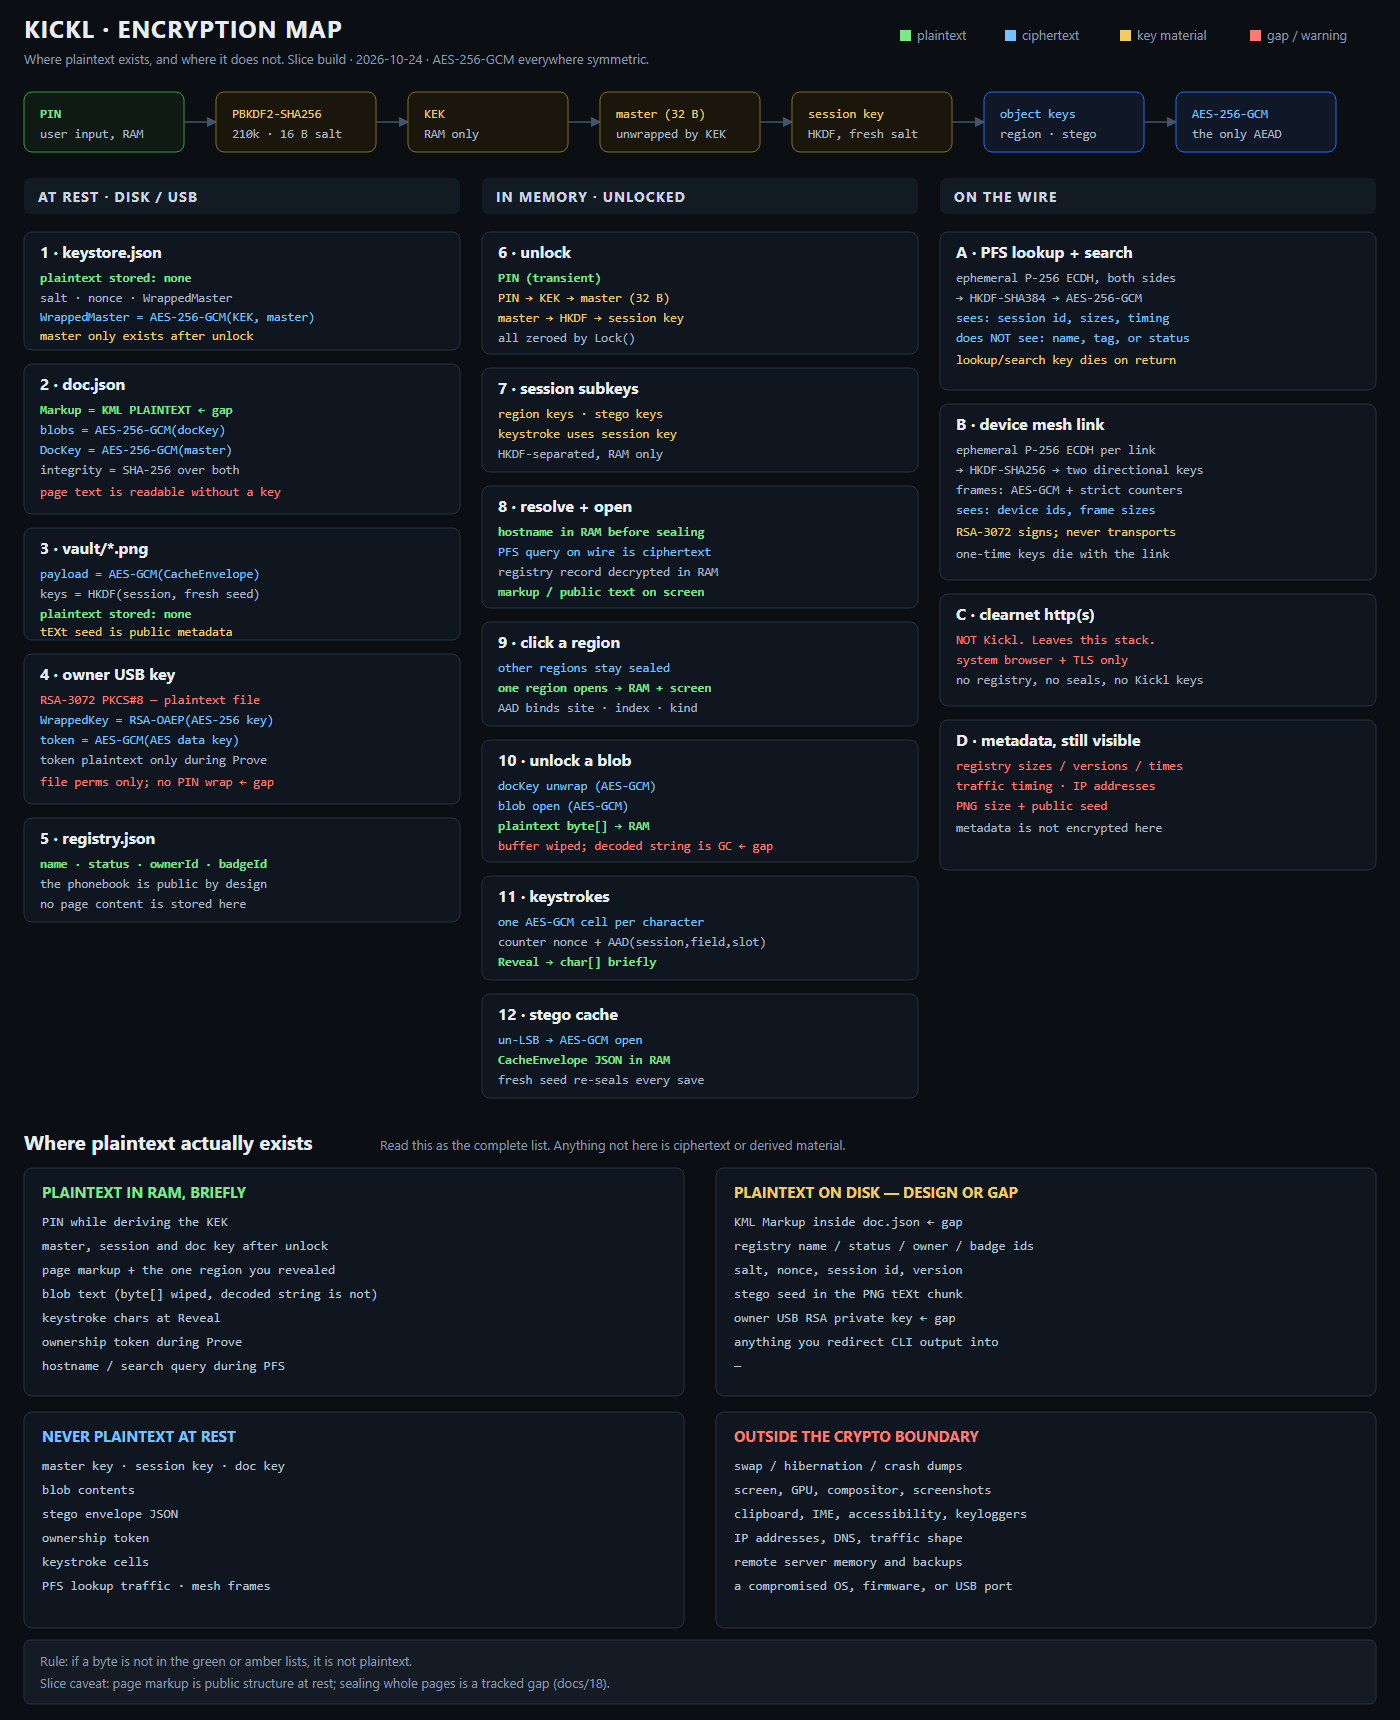
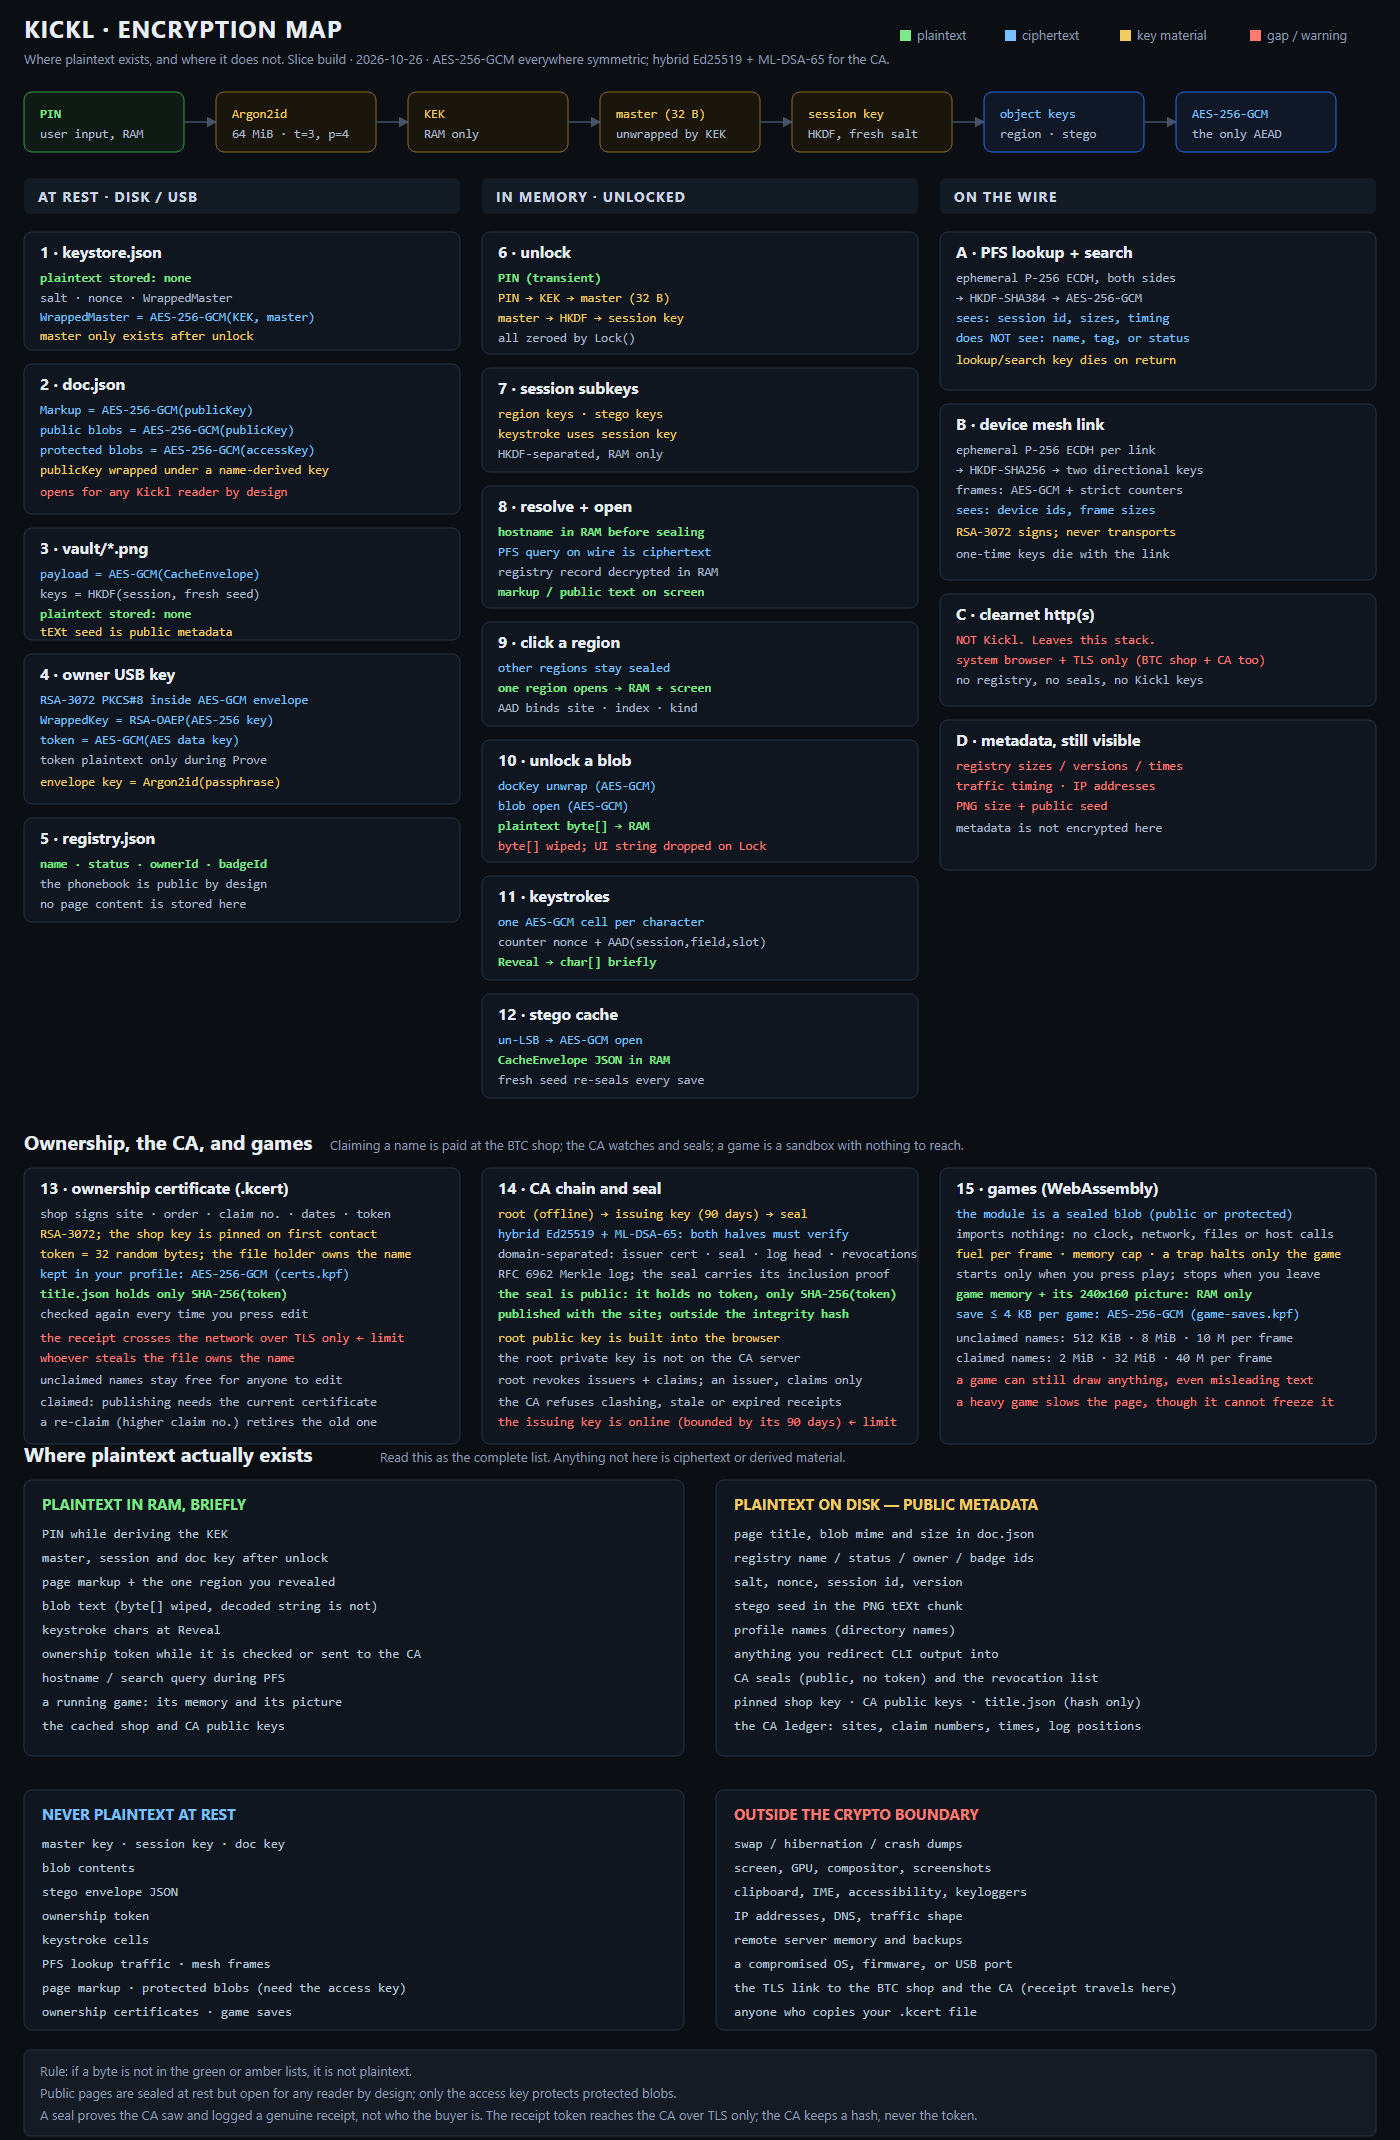
Update the encryption map for ownership, the CA, protected blobs and games
The diagram and docs/20 now show what the last round of work added:

- A new band with three panels: the ownership certificate, the CA chain and
  seal (offline root, 90-day issuing key, hybrid Ed25519 + ML-DSA-65,
  transparency log), and the WebAssembly game sandbox.
- Inventory lists updated: certificates and game saves are never plaintext at
  rest; seals, the ledger and pinned public keys are public metadata; a running
  game's memory is plaintext in RAM.
- New limits stated plainly: the receipt token crosses TLS only, a .kcert is a
  bearer credential, a seal does not identify the buyer, the issuing key is
  online, and games can still draw misleading pixels.
- Page markup is no longer listed as plaintext on disk; it is sealed at rest.
- PNG regenerated from the SVG.

diff --git a/docs/20-encryption-map.md b/docs/20-encryption-map.md
@@ -3,7 +3,7 @@
 > Scope: the **slice as implemented today** (`src/Kickl.Core`), not the target design.
 > Anything labelled "gap" is a real difference between the two.
 >
-> Visual version: [`diagrams/encryption-map.svg`](diagrams/encryption-map.svg)
+> Visual version: [`diagrams/encryption-map.svg`](diagrams/encryption-map.svg) · updated 2026-10-26 for ownership certificates, the CA, protected blobs and games
 
 ## 1. The key chain
 
@@ -47,9 +47,9 @@ ownership USB and to sign title statements; ECDH is used only for PFS lookup key
 │  WrappedMaster  [ciphertext]│  │ session key + subkeys       │  │  HKDF-SHA384                │
 │                             │  │ doc key (after first blob)  │  │  AES-256-GCM query/response │
 │ doc.json                    │  │                             │  │  observer: id, sizes, timing│
-│  Markup         [PLAINTEXT] │  │ page text (public)          │  │  observer: NOT host/status  │
+│  SealedMarkup [ciphertext]  │  │ page text (public)          │  │  observer: NOT host/status  │
 │  blobs          [ciphertext]│  │ one revealed region         │  │                             │
-│  DocKey         [wrapped]   │  │ blob text (then buffer zero)│  │ mesh link                   │
+│  PublicWrap, DocKey [wrapped]│  │ blob text (then buffer zero)│  │ mesh link                   │
 │                             │  │ keystroke chars (Reveal)    │  │  ephemeral P-256 ECDH       │
 │ vault/*.png                 │  │ ownership token (Prove)     │  │  HKDF-SHA256 → 2 dir keys   │
 │  AES-GCM envelope in LSB    │  │ search query + result list  │  │  AES-GCM frames + counters  │
@@ -75,7 +75,7 @@ host string (RAM, plaintext)
    │        title, headline, tags, updated
    │
    ├─► doc.json read
-   │        Markup ......................... PLAINTEXT (public structure)
+   │        SealedMarkup ................... AES-256-GCM under the public key
    │        blobs[id].Ciphertext ........... AES-256-GCM
    │        DocKey.Ciphertext .............. AES-256-GCM under master
    │
@@ -107,6 +107,9 @@ host string (RAM, plaintext)
 | Blob text | `UnlockBlob` | byte buffer zeroed; decoded string lives until GC |
 | Keystroke characters | `KeystrokeShield.Reveal` | returned `char[]`, caller wipes |
 | Ownership token | `OwnershipAuthority.Prove` | inside the call, then zeroed |
+| Ownership certificate token | `BrowserSession.ImportCertAsync` / `SubmitToCaAsync` | while it is checked or sent to the CA; the certificate itself is kept encrypted |
+| Game memory and 240×160 picture | `WasmGame` | while the game runs; freed when it stops, the page changes or the profile locks |
+| Shop and CA public keys | `SiteClaims`, `CaPins` | cached in RAM; nothing secret |
 | Lookup hostname or search query | `BrowserSession.Lookup` / `Search` | duration of the call |
 | Search result metadata | `Search` / renderer | query response, then GC |
 | Session P-256 private key | `SessionSecret.Create` | until `Lock()`; public half is public |
@@ -115,11 +118,16 @@ host string (RAM, plaintext)
 
 | Plaintext | Where | Why |
 |---|---|---|
-| **KML page markup** | `doc.json` → `Markup` | **slice choice**: markup is public structure; regions are sealed only in memory. Target design seals pages at rest (`docs/18`) — tracked gap. |
+| Page title, blob mime and size | `doc.json` | public metadata; the page text itself is `SealedMarkup` ciphertext |
 | Legacy draft markup | `profiles/<profile-id>/drafts/` | Migrated files may be plaintext; the browser composer now builds markup in memory and does not write a draft file |
 | Registry names, status, owner id, badge id, title, headline, tags | `shared/registry.json` | the phonebook and the live index are public; that is the point of the registry |
 | Profile name | `profiles/<profile-id>/` directory name | Local account picker needs a stable label; profile names are not encrypted |
 | Salts, nonces, session ids, versions | keystore / docs / stego PNG | metadata required to decrypt |
+| Page title, blob mime and size | `doc.json` | public metadata; the page text and public blobs are ciphertext |
+| **CA seal** | `doc.json` → `Seal` | public by design: it names the site, claim number, times and log position, and holds only `SHA-256(token)`, never the token. Outside the integrity hash |
+| Ownership title | `shared/ownership/<site>.title.json` | owner id, badge id, `SHA-256(token)` commitment, dates |
+| Pinned shop key, CA public keys, cached revocation list | `shared/ownership/` | public keys and a signed list; nothing secret |
+| CA ledger | `server/keys/ca/data/ledger.jsonl` (CA server) | public: sites, claim numbers, times, log positions, seals |
 | Stego seed | PNG `tEXt` chunk | not a secret: payload key = HKDF(session, seed); seed only keys the permutation |
 | **Owner USB RSA private key** | `kickl-owner-<site>.key` | Argon2id-derived AES-256-GCM envelope; passphrase required to unlock |
 | CLI output / redirected logs | wherever you send it | `open` prints page text by design |
@@ -131,6 +139,10 @@ host string (RAM, plaintext)
 - stego envelope JSON
 - ownership token
 - keystroke cells
+- page markup and public blobs (`doc.json`: AES-256-GCM under the per-document public key)
+- protected blobs (a separate key, wrapped by an Argon2id key derived from the site's access key)
+- ownership certificates (`profiles/<id>/private/certs.kpf`)
+- game save data (`profiles/<id>/private/game-saves.kpf`, at most 4 KiB per game)
 - saved reading items (`profiles/<profile-id>/private/saved-items.kpf`)
 - configured news feed sources (`profiles/<profile-id>/private/news-sources.kpf`)
 - home ad-slot preference (`profiles/<profile-id>/private/home-ad-pref.kpf`)
@@ -152,10 +164,12 @@ None of the cryptography below protects these:
 - IP addresses, DNS, traffic timing and sizes
 - remote server memory, backups, logs
 - a compromised OS, firmware, or USB port
+- the TLS link to the BTC shop and to the CA: the ownership receipt, including its secret token, crosses it. Kickl keys do not protect that link
+- anyone who copies a `.kcert` file: whoever holds a certificate can edit the name until the claim expires
 
 ## 5. Known gaps (do not claim otherwise)
 
-1. **Page markup is plaintext at rest.** `SealedDocument.Markup` is serialized as-is. Only blobs are encrypted. Sealed page regions exist in memory (`SealedPage`) and in the site cache envelope, not in `doc.json`.
+1. **Public content is open to every Kickl reader by design.** Markup and public blobs are AES-256-GCM under a per-document public key, wrapped under a key derived from the site name. This keeps page text out of disk, backup and file-listing reads; it is not a secret. Real secrecy comes from `access="protected"` blobs, keyed by an access key (Argon2id) that the author hands out.
 2. **Blob text becomes a managed string.** The byte buffer is zeroed, but `Encoding.UTF8.GetString` creates a GC string that cannot be wiped. Production needs a pinned render buffer.
 3. **Trusted-device ceremony is not integrated into hardware.** The software encrypts owner keys with an Argon2id-derived AES-GCM key and supports RSA-wrapped AES-GCM proof packets, but the CLI prompt runs on its own host. A physical first-device prompt, receiver dongle storage/pairing, radio transport, replay management, and legacy plaintext-key migration remain unfinished.
 4. **No memory locking.** Keys can be swapped or included in a crash dump; `mlock`/`VirtualLock` is not used.
@@ -166,5 +180,10 @@ None of the cryptography below protects these:
 9. **On-screen text is plaintext.** The renderer must display it; screen capture and shoulder-surfing are out of scope.
 10. **Clearnet is a different lane.** `http(s)://` is handed to the system browser and gets none of this.
 11. **Profile protection is incomplete.** Each local profile has its own key and directory, but profile names, published site markup, legacy drafts, and some profile-owned data remain plaintext. Published markup is the site's public payload; the shared public registry is intentionally outside profile encryption. Recovery, cloud sync, and complete at-rest coverage remain unfinished.
+
+12. **The receipt token travels over TLS only.** The shop hands the buyer a certificate containing a 32-byte secret token, and the owner sends it to the CA to be sealed. Both hops use ordinary HTTPS, not Kickl keys. The CA stores only `SHA-256(token)` and the seal is public, but a party that could read the TLS stream could copy the token. A certificate is a bearer credential.
+13. **A seal does not identify the buyer.** It proves the CA saw a genuine shop receipt, found no clash, and logged it. It does not prove who paid.
+14. **The issuing key is online.** The root private key is offline and its public half is built into the browser, but the issuing key that signs seals lives on the CA server. A 90-day certificate bounds the damage and the root can revoke it. Visitors check a seal against the log's inclusion proof, not the log's consistency over time; an auditor re-checks that.
+15. **Games are sandboxed, not trusted.** A game has no imports, a fuel budget per call and a memory cap, so it cannot reach the network, files or clock and cannot freeze the browser. It can still draw anything on its picture, including misleading text, and a heavy game makes the page feel slow.
 
 > Rule: if a byte is not in the green/blue lanes above, it is not protected by Kickl.
